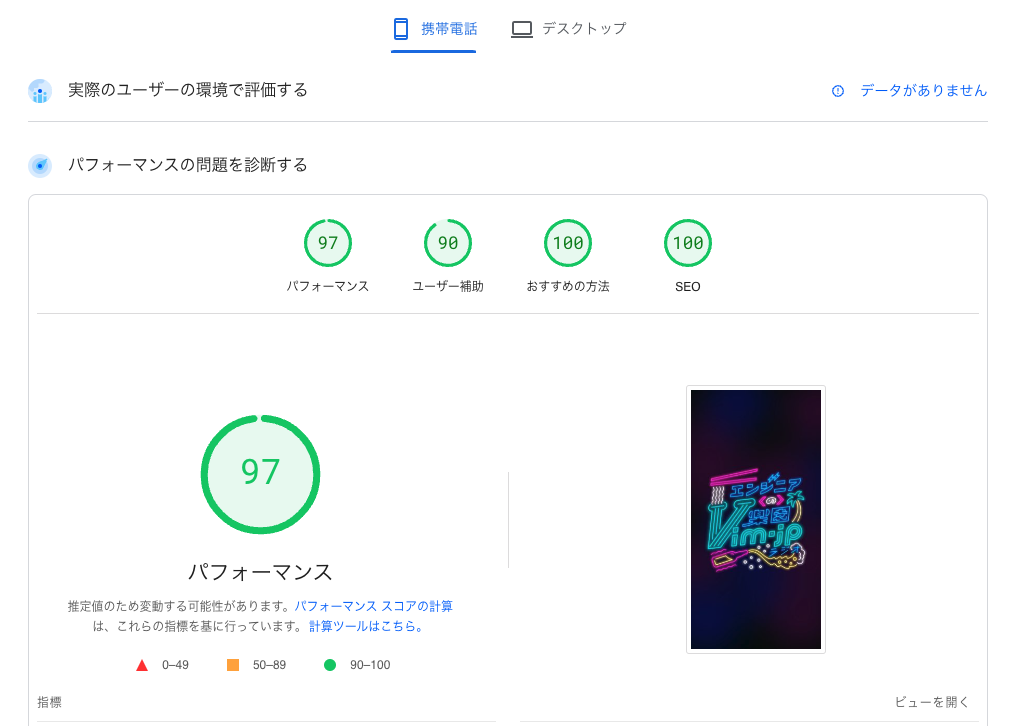
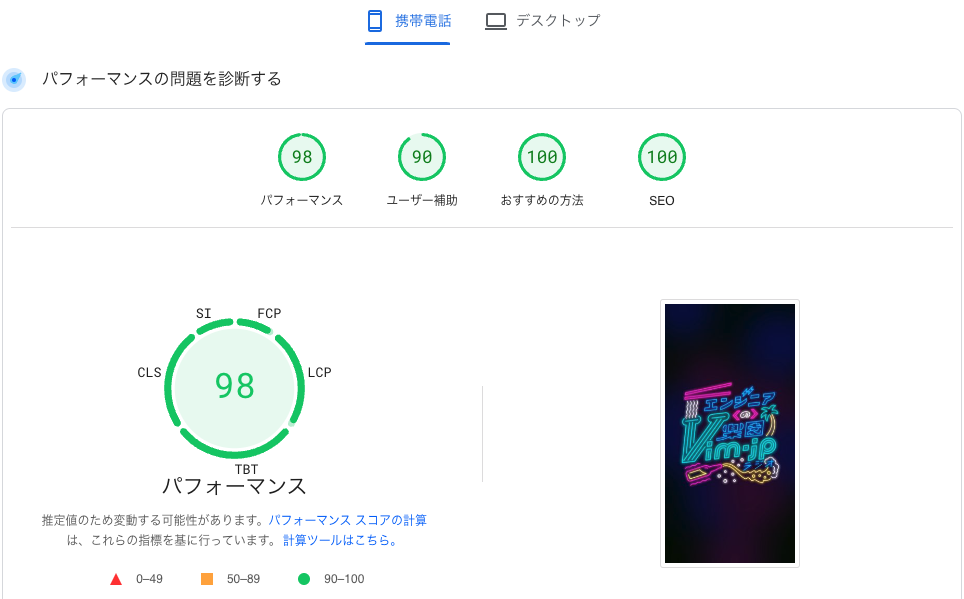
update pagespeed insights

diff --git a/articles/e1192d17156a2d.md b/articles/e1192d17156a2d.md
@@ -63,7 +63,7 @@ Zenn なので技術的な話も少し深めに書いていきます。
 結果として、 PageSpeed Insights では満足のいくスコアを得ることができました。
 
 ![4.png](/images/e1192d17156a2d/4.png)
-*[PageSpeed Insights のスコア](https://pagespeed.web.dev/analysis/https-vim-jp-radio-com/74k789usiv?form_factor=mobile)*
+*[PageSpeed Insights のスコア](https://pagespeed.web.dev/analysis/https-vim-jp-radio-com/dacso4sz80?form_factor=mobile)*
 
 それでは、技術的なポイントを見ていきましょう！
 
